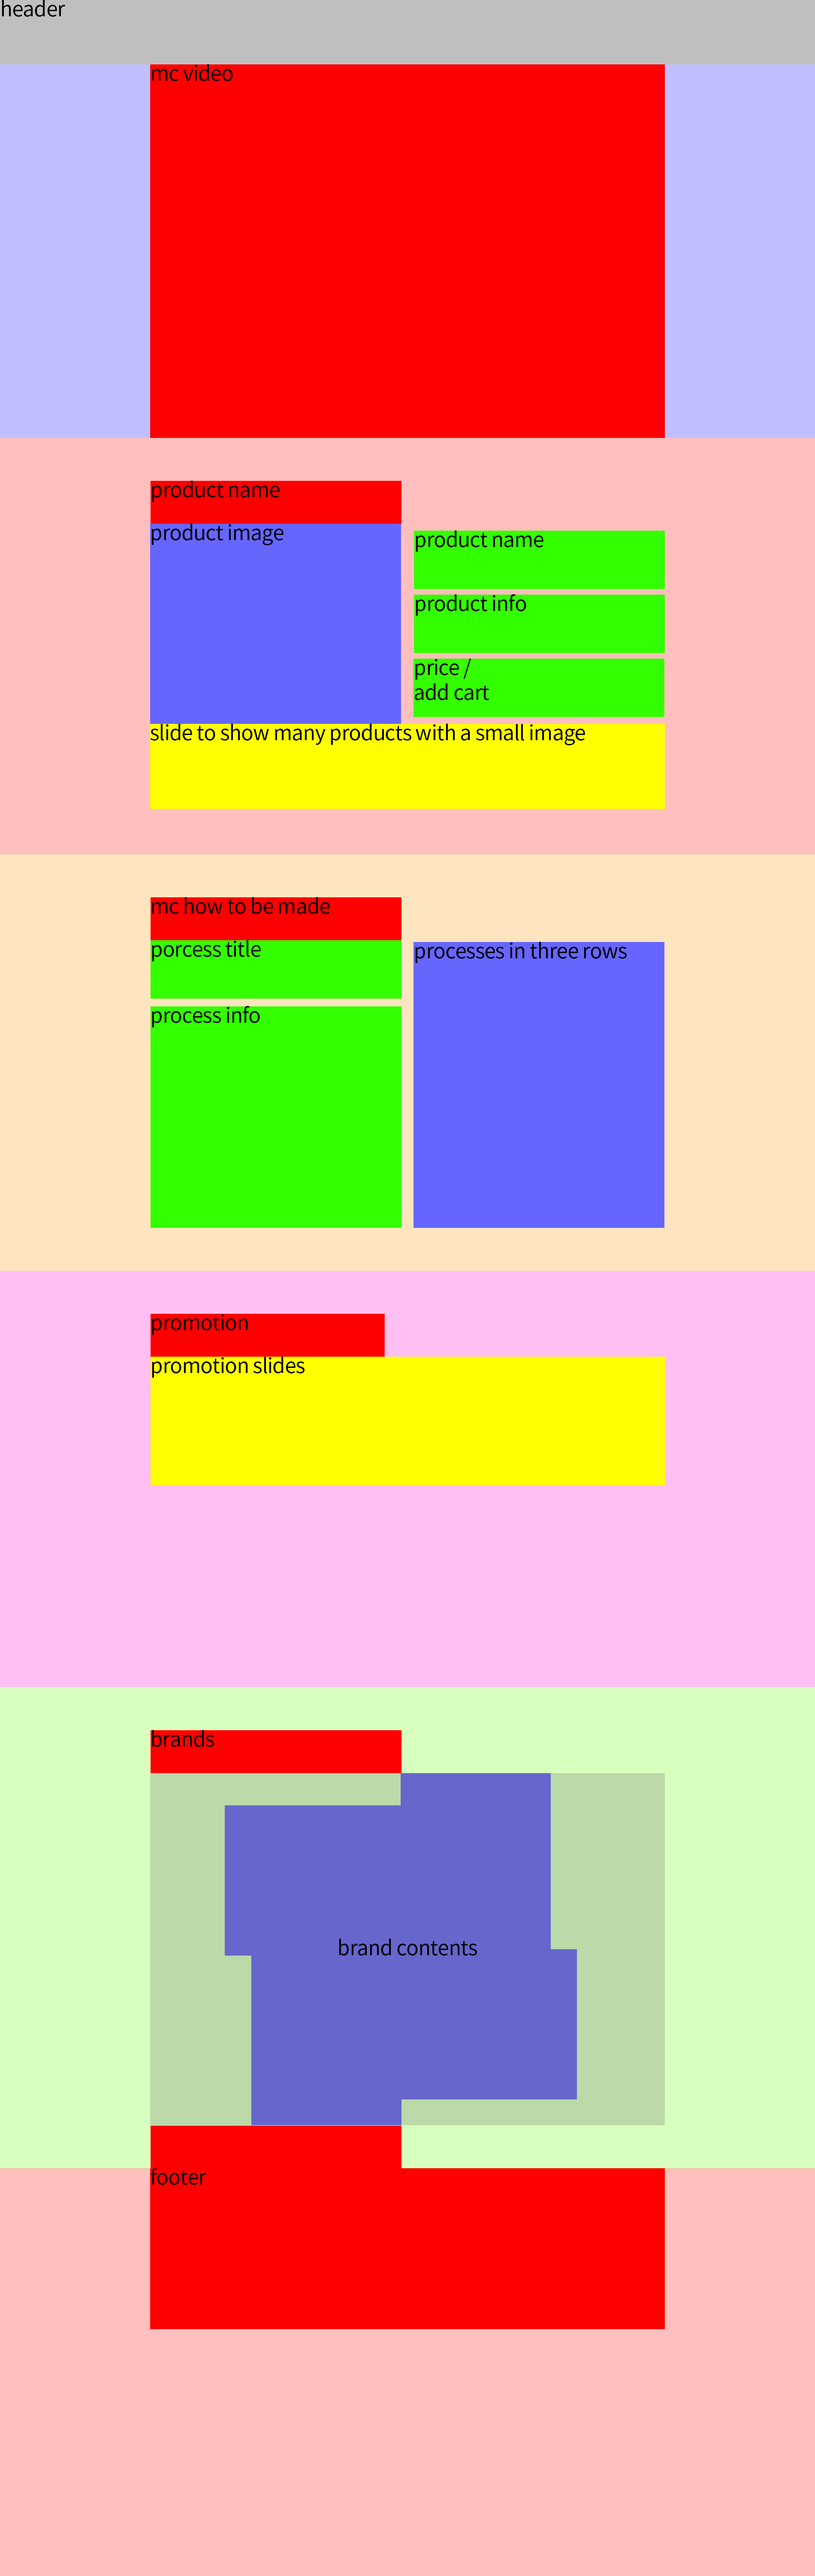
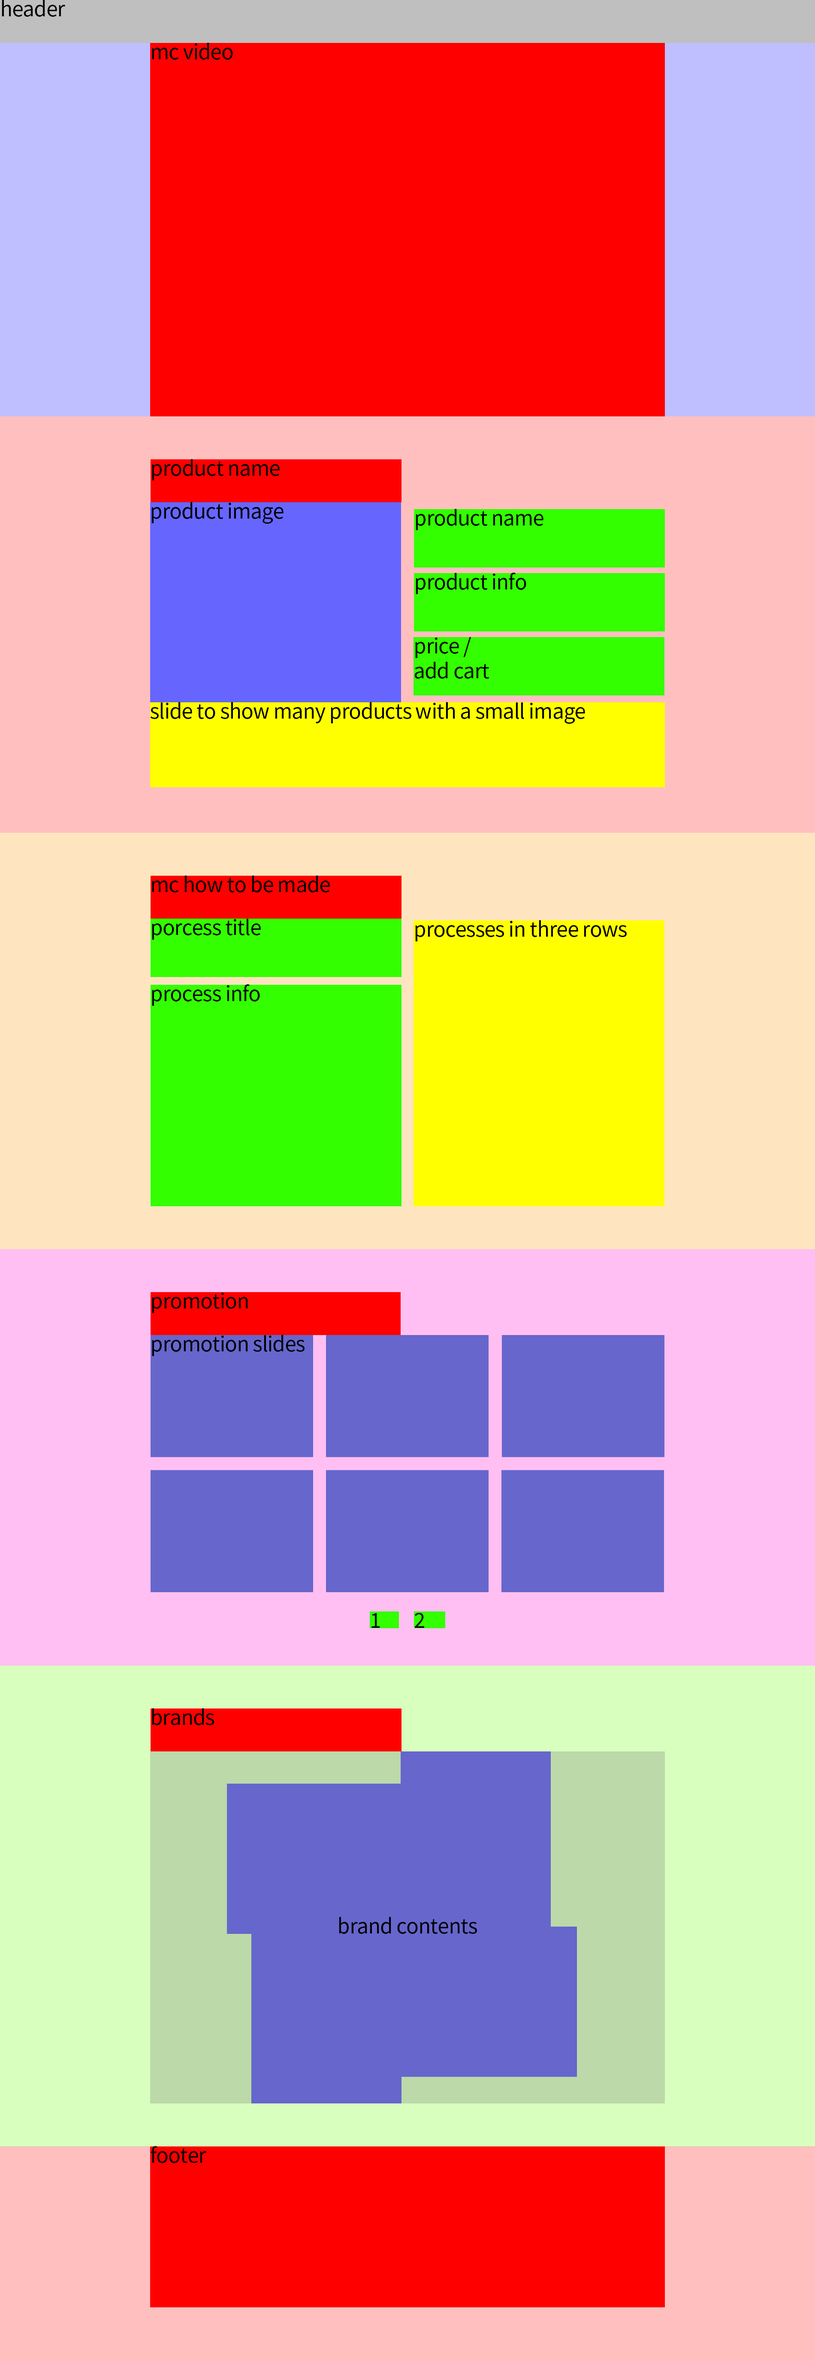
20220705 foods

diff --git a/css/main.css b/css/main.css
@@ -17,18 +17,19 @@
 .header h1 {
   position: relative;
   width: 106px;
-  transform: translateY(20px);
+  transform: translateY(25px);
   z-index: 999;
 }
 .header h1::before {
   content: "";
   position: absolute;
-  top: calc(50% - 30px);
+  top: calc(100% - 30px);
   left: 50%;
-  transform: translateX(-50%);
+  transform: translateX(-50%) translateY(0);
   width: 160%;
-  height: 100%;
-  border-radius: 40px;
+  height: 50%;
+  border-bottom-left-radius: 40px;
+  border-bottom-right-radius: 40px;
   background: #fff;
   z-index: -1;
 }
@@ -40,12 +41,10 @@
 .header nav > ul {
   display: flex;
   font-size: 21px;
-  font-weight: 500;
   gap: 50px;
 }
 .header nav > .nav-right {
   font-size: 15px;
-  font-weight: 500;
 }
 /* 
 .header;;
@@ -107,6 +106,9 @@
 .mainSlider .slick-dots li:nth-child(3) {
   transform: translateX(50%);
 }
+.mainSlider button {
+  display: none;
+}
 /* 
 .main_visual;;
 */
@@ -120,6 +122,13 @@
 .meal .container {
   width: 1230px;
 }
+
+.meal h2,
+.meal .mealSliderM,
+.meal .smenus p {
+  padding-left: 15px;
+}
+
 .meal h2 {
   font-size: 48px;
   font-weight: 500;
@@ -127,30 +136,29 @@
 .meal img {
   border-radius: 10px;
 }
-.meal .slider-m div {
+.meal .mealSliderM div {
   display: flex;
 }
-.meal .slider-m .text {
+.meal .mealSliderM .text {
   flex-direction: column;
 }
-.meal .slider-m strong {
+.meal .mealSliderM strong {
   font-size: 30px;
   font-weight: 500;
 }
-.meal .slider-m p {
+.meal .mealSliderM p {
   font-size: 21px;
   font-weight: 300;
-}
-.meal .smenus {
 }
 .meal .smenus figure {
   padding: 0 15px;
   margin-bottom: 10px;
 }
-.meal .slider-s img {
+.meal .mealSliderS img {
+  margin: 5px 0;
   width: 100%;
 }
-.meal .slider-s .slick-current img {
+.meal .mealSliderS .slick-current img {
   box-shadow: 0 0 5px #000;
 }
 
@@ -169,15 +177,15 @@
 }
 .process .processContent {
   display: flex;
-  flex: 1;
+  gap: 30px;
 }
 
 .process .text {
-  width: calc(50% - 100px);
+  width: calc(50% - 30px);
   background: red;
 }
 .process .rows {
-  width: calc(50% + 100px);
+  width: calc(50%);
   background: beige;
   padding: 0 50px;
 }
@@ -189,23 +197,42 @@
  */
 
 /* 
-.c03;;
+.promotion;;
  */
-.c03 {
+.promotion {
   background: #fff;
+  padding-bottom: 100px;
+}
+.promotion .container {
+  width: 1200px;
+}
+.promotion .top,
+.promotion .bottom {
+  display: flex;
+  justify-content: space-between;
+  gap: 30px;
+}
+.promotion .top {
+  padding-bottom: 30px;
+}
+.promotion .pg01 {
+  display: block;
+}
+.promotion .pg02 {
+  display: none;
 }
 /* 
-.c03;;
+.promotion;;
  */
 
 /* 
-.c04;;
+.brands;;
  */
-.c04 {
+.brands {
   background: #ddd;
 }
 /* 
-.c04;;
+.brands;;
  */
 
 /* 

diff --git a/index.html b/index.html
@@ -70,7 +70,7 @@
         <section class="meal">
           <div class="container">
             <h2>product</h2>
-            <div class="slider-m">
+            <div class="mealSliderM">
               <div class="bmenus">
                 <figure><img src="./img/boseong.png" alt="" /></figure>
                 <div class="text">
@@ -126,7 +126,7 @@
                 </div>
               </div>
             </div>
-            <div class="slider-s">
+            <div class="mealSliderS">
               <div class="smenus">
                 <figure>
                   <img src="./img/boseong.png" alt="" />
@@ -218,17 +218,48 @@
         </section>
         <!-- .process;; -->
 
-        <!-- .c03;; -->
-        <section class="c03">
-          <div class="container"></div>
+        <!-- .promotion;; -->
+        <section class="promotion">
+          <div class="container">
+            <h2>promotion</h2>
+            <div class="promoPages">
+              <div class="pg01">
+                <div class="top">
+                  <div><img src="./img/promo01.jpg" alt="" /></div>
+                  <div><img src="./img/promo02.jpg" alt="" /></div>
+                  <div><img src="./img/promo03.jpg" alt="" /></div>
+                </div>
+                <div class="bottom">
+                  <div><img src="./img/promo04.png" alt="" /></div>
+                  <div><img src="./img/promo05.png" alt="" /></div>
+                  <div><img src="./img/promo06.jpg" alt="" /></div>
+                </div>
+              </div>
+              <div class="pg02">
+                <div class="top">
+                  <div><img src="./img/promo07.png" alt="" /></div>
+                  <div><img src="./img/promo08.png" alt="" /></div>
+                  <div><img src="./img/promo09.png" alt="" /></div>
+                </div>
+                <div class="bottom">
+                  <div><img src="./img/promo10.png" alt="" /></div>
+                  <div><img src="./img/promo11.png" alt="" /></div>
+                  <div><img src="./img/promo12.png" alt="" /></div>
+                </div>
+              </div>
+            </div>
+          </div>
         </section>
-        <!-- .c03;; -->
+        <!-- .promotion;; -->
 
-        <!-- .c04;; -->
-        <section class="c04">
-          <div class="container"></div>
+        <!-- .brands;; -->
+        <section class="brands">
+          <div class="container">
+            <h2>brands</h2>
+            <div class=""></div>
+          </div>
         </section>
-        <!-- .c04;; -->
+        <!-- .brands;; -->
 
         <!-- .c05;; -->
         <section class="c05">

diff --git a/js/main.js b/js/main.js
@@ -17,7 +17,7 @@ $(function () {
   video(".bgVideo01", "https://youtu.be/u2hLpzjQgvc", ".slider01", 16, 30);
   video(".bgVideo02", "https://youtu.be/MNL6IMZEJ0g", ".slider02", 1, 15);
   video(".bgVideo03", "https://youtu.be/MyVoER9Q-xk", ".slider03", 16, 30);
-  $(".mainSlider").on("reInit afterChange", function (e, s, c) {
+  $(".mainSlider").on("afterChange", (e, s, c) => {
     //$(".bgVideo").YTPPause();
     $(`.bgVideo0${c + 1}`).YTPPlay();
     // $(`.bgVideo0${((c + 1) % 3) + 1}`).YTPPause();
@@ -45,19 +45,19 @@ $(function () {
     fade: true,
   });
 
-  $(".sliderBtn").on("click", function () {
-    $(this).toggleClass("on");
+  $(".sliderBtn").on("click", () => {
+    $(".sliderBtn").toggleClass("on");
     $(".sliderBtn i:first-child").YTPMute();
     $(".sliderBtn i:last-child").YTPUnmute();
   });
 
-  $(".slider-m").slick({
-    asNavFor: ".slider-s",
+  $(".mealSliderM").slick({
+    asNavFor: ".mealSliderS",
     slidesToShow: 1,
     fade: true,
   });
-  $(".slider-s").slick({
-    asNavFor: ".slider-m",
+  $(".mealSliderS").slick({
+    asNavFor: ".mealSliderM",
     slidesToShow: 5,
     swipeToSlide: true,
   });
@@ -75,4 +75,16 @@ $(function () {
   $(".rowSlider03").slick({
     slidesToShow: 3,
   });
+
+  $(".textSlider .slick-prev").on("click", () => {
+    $(".rowSlider01").slick("slickPrev");
+    $(".rowSlider02").slick("slickPrev");
+    $(".rowSlider03").slick("slickPrev");
+  });
+  $(".textSlider .slick-next").on("click", () => {
+    $(".rowSlider01").slick("slickNext");
+    $(".rowSlider02").slick("slickNext");
+    $(".rowSlider03").slick("slickNext");
+  });
+  $(".textSlider .slick-next").on("click", () => {});
 });
